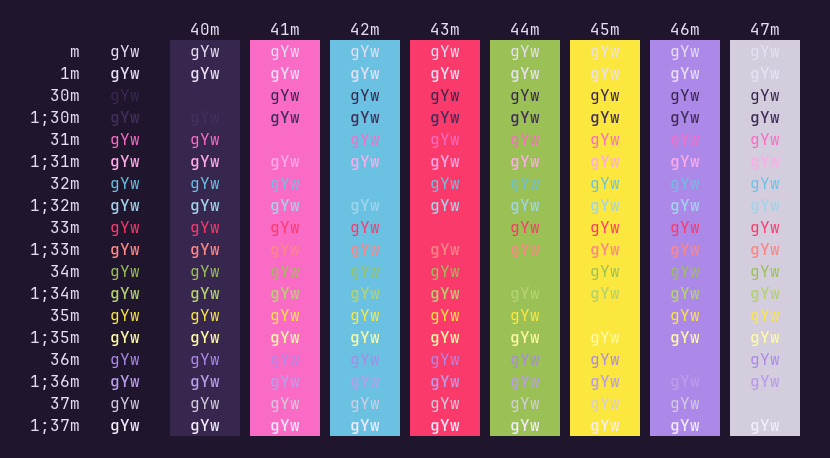
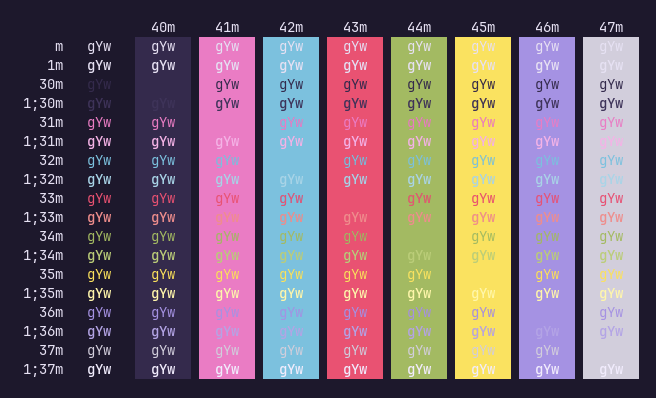
mugen blacks darker

diff --git a/README.md b/README.md
@@ -3,9 +3,9 @@
 <div align="center">
 <p>terminal themes from Naoko Takeuchi's <a href="https://missdream.org/raw-sailor-moon-downloads/manga/art-books/"><em>Bishoujo Senshi Sailor Moon</em></a> artbooks</p>
 
-<img src="assets/yume.png" alt="yume" width="720px">
-<img src="assets/cosmos.png" alt="mugen" width="720px">
-<img src="assets/mugen.png" alt="yume" width="720px">
+<img src="assets/yume.png" alt="yume" width="480px">
+<img src="assets/cosmos.png" alt="mugen" width="480px">
+<img src="assets/mugen.png" alt="yume" width="480px">
 </div>
 
 ## Installation
@@ -33,4 +33,8 @@ local function get_theme()
     end
     return "Mugen"
 end
+
+return {
+    color_scheme = get_theme(),
+}
 ```
